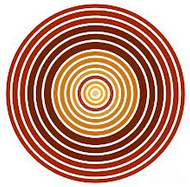
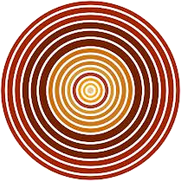
bugfixes in png file and in conditional Clear(), fixed - new bug into other tests introduced.

diff --git a/TTengineTest/Tests/TestTransparentChannels.cs b/TTengineTest/Tests/TestTransparentChannels.cs
@@ -16,33 +16,27 @@ namespace TTengineTest
         public override void Create()
         {
             // put some content in the background channel
-            var chbg = TestFactory.CreateChannel(this.BackgroundColor);
+            var chbg = TestFactory.CreateChannel(this.BackgroundColor);            
             BuildTo(chbg);
             var t0 = new TestSphereCollision();
             t0.Create();
-
-            BlendState blend = new BlendState();
-            blend.AlphaBlendFunction = BlendFunction.Add;
-            blend.AlphaSourceBlend = Blend.SourceAlpha;
-            blend.AlphaDestinationBlend = Blend.InverseSourceAlpha;
-            blend.ColorSourceBlend = Blend.SourceAlpha;
-            blend.ColorDestinationBlend = Blend.InverseSourceAlpha;
-
-            var scr = Channel.GetComponent<WorldComp>().Screen;
-            scr.SpriteBatch.blendState = blend; // custom blending of my sub-channels
 
             BuildToDefault();
             // create a first child channel - should become transparent
             var ch1 = TestFactory.CreateChannel(Color.Transparent, 600, 400);
 			ch1.GetComponent<PositionComp>().Position = new Vector2(50f, 50f);
-            
-            // second item - a regular sprite with transparency
+            Color c1 = ch1.GetComponent<SpriteComp>().GetPixel(0, 0);  // for debug inspection only
+            TestFactory.AddScript(ch1, ScriptInspectTextureColor);
+            ch1.GetComponent<WorldComp>().Screen.Zoom = 0.5f;
+
+            // second item - a regular sprite with transparency RUNTIME LOADED
             var spr1 = TestFactory.CreateSpritelet("red-circle_frank-tschakert_runtime-load.png"); // ("Op-art-circle_Marco-Braun");
             spr1.GetComponent<PositionComp>().Position = new Vector2(800f, 50f);
+            Color c2 = spr1.GetComponent<SpriteComp>().GetPixel(0, 0);  // for debug inspection only
 
-            // 3rd item - a regular compiled content sprite with transparency
+            // 3rd item - a regular compiled content sprite with transparency content pipeline loaded
             var spr2 = TestFactory.CreateSpritelet("red-circle_frank-tschakert"); 
-            spr2.GetComponent<PositionComp>().Position = new Vector2(1000f, 50f);
+            spr2.GetComponent<PositionComp>().Position = new Vector2(1050f, 50f);
 
 			// for channel, build the content into it.
 			BuildTo(ch1);
@@ -50,6 +44,18 @@ namespace TTengineTest
 			t1.Create();
 
         }
+
+        void ScriptInspectTextureColor(ScriptContext ctx)
+        {
+            var e = ctx.Entity;
+            var sc = e.GetComponent<SpriteComp>();
+            Color c1 = sc.GetPixel(0, 0);
+            if (c1.A != 0)
+            {
+                throw new Exception("Expected Alpha=0 in texture pixel (0,0)");
+            }
+        }
+
 
     }
 }

diff --git a/TTengine/Systems/ScreenletSystem.cs b/TTengine/Systems/ScreenletSystem.cs
@@ -46,8 +46,8 @@ namespace TTengine.Systems
         public override void Process(Entity entity, ScreenComp screenComp)
         {
             TTGame.Instance.GraphicsDevice.SetRenderTarget(screenComp.RenderTarget);
-            if (screenComp.BackgroundColor.A != 0)
-                TTGame.Instance.GraphicsDevice.Clear(screenComp.BackgroundColor);
+            //if (screenComp.BackgroundColor.A != 0)
+            TTGame.Instance.GraphicsDevice.Clear(screenComp.BackgroundColor);
             TTSpriteBatch sb = screenComp.SpriteBatch;
             sb.End(); 
         }
